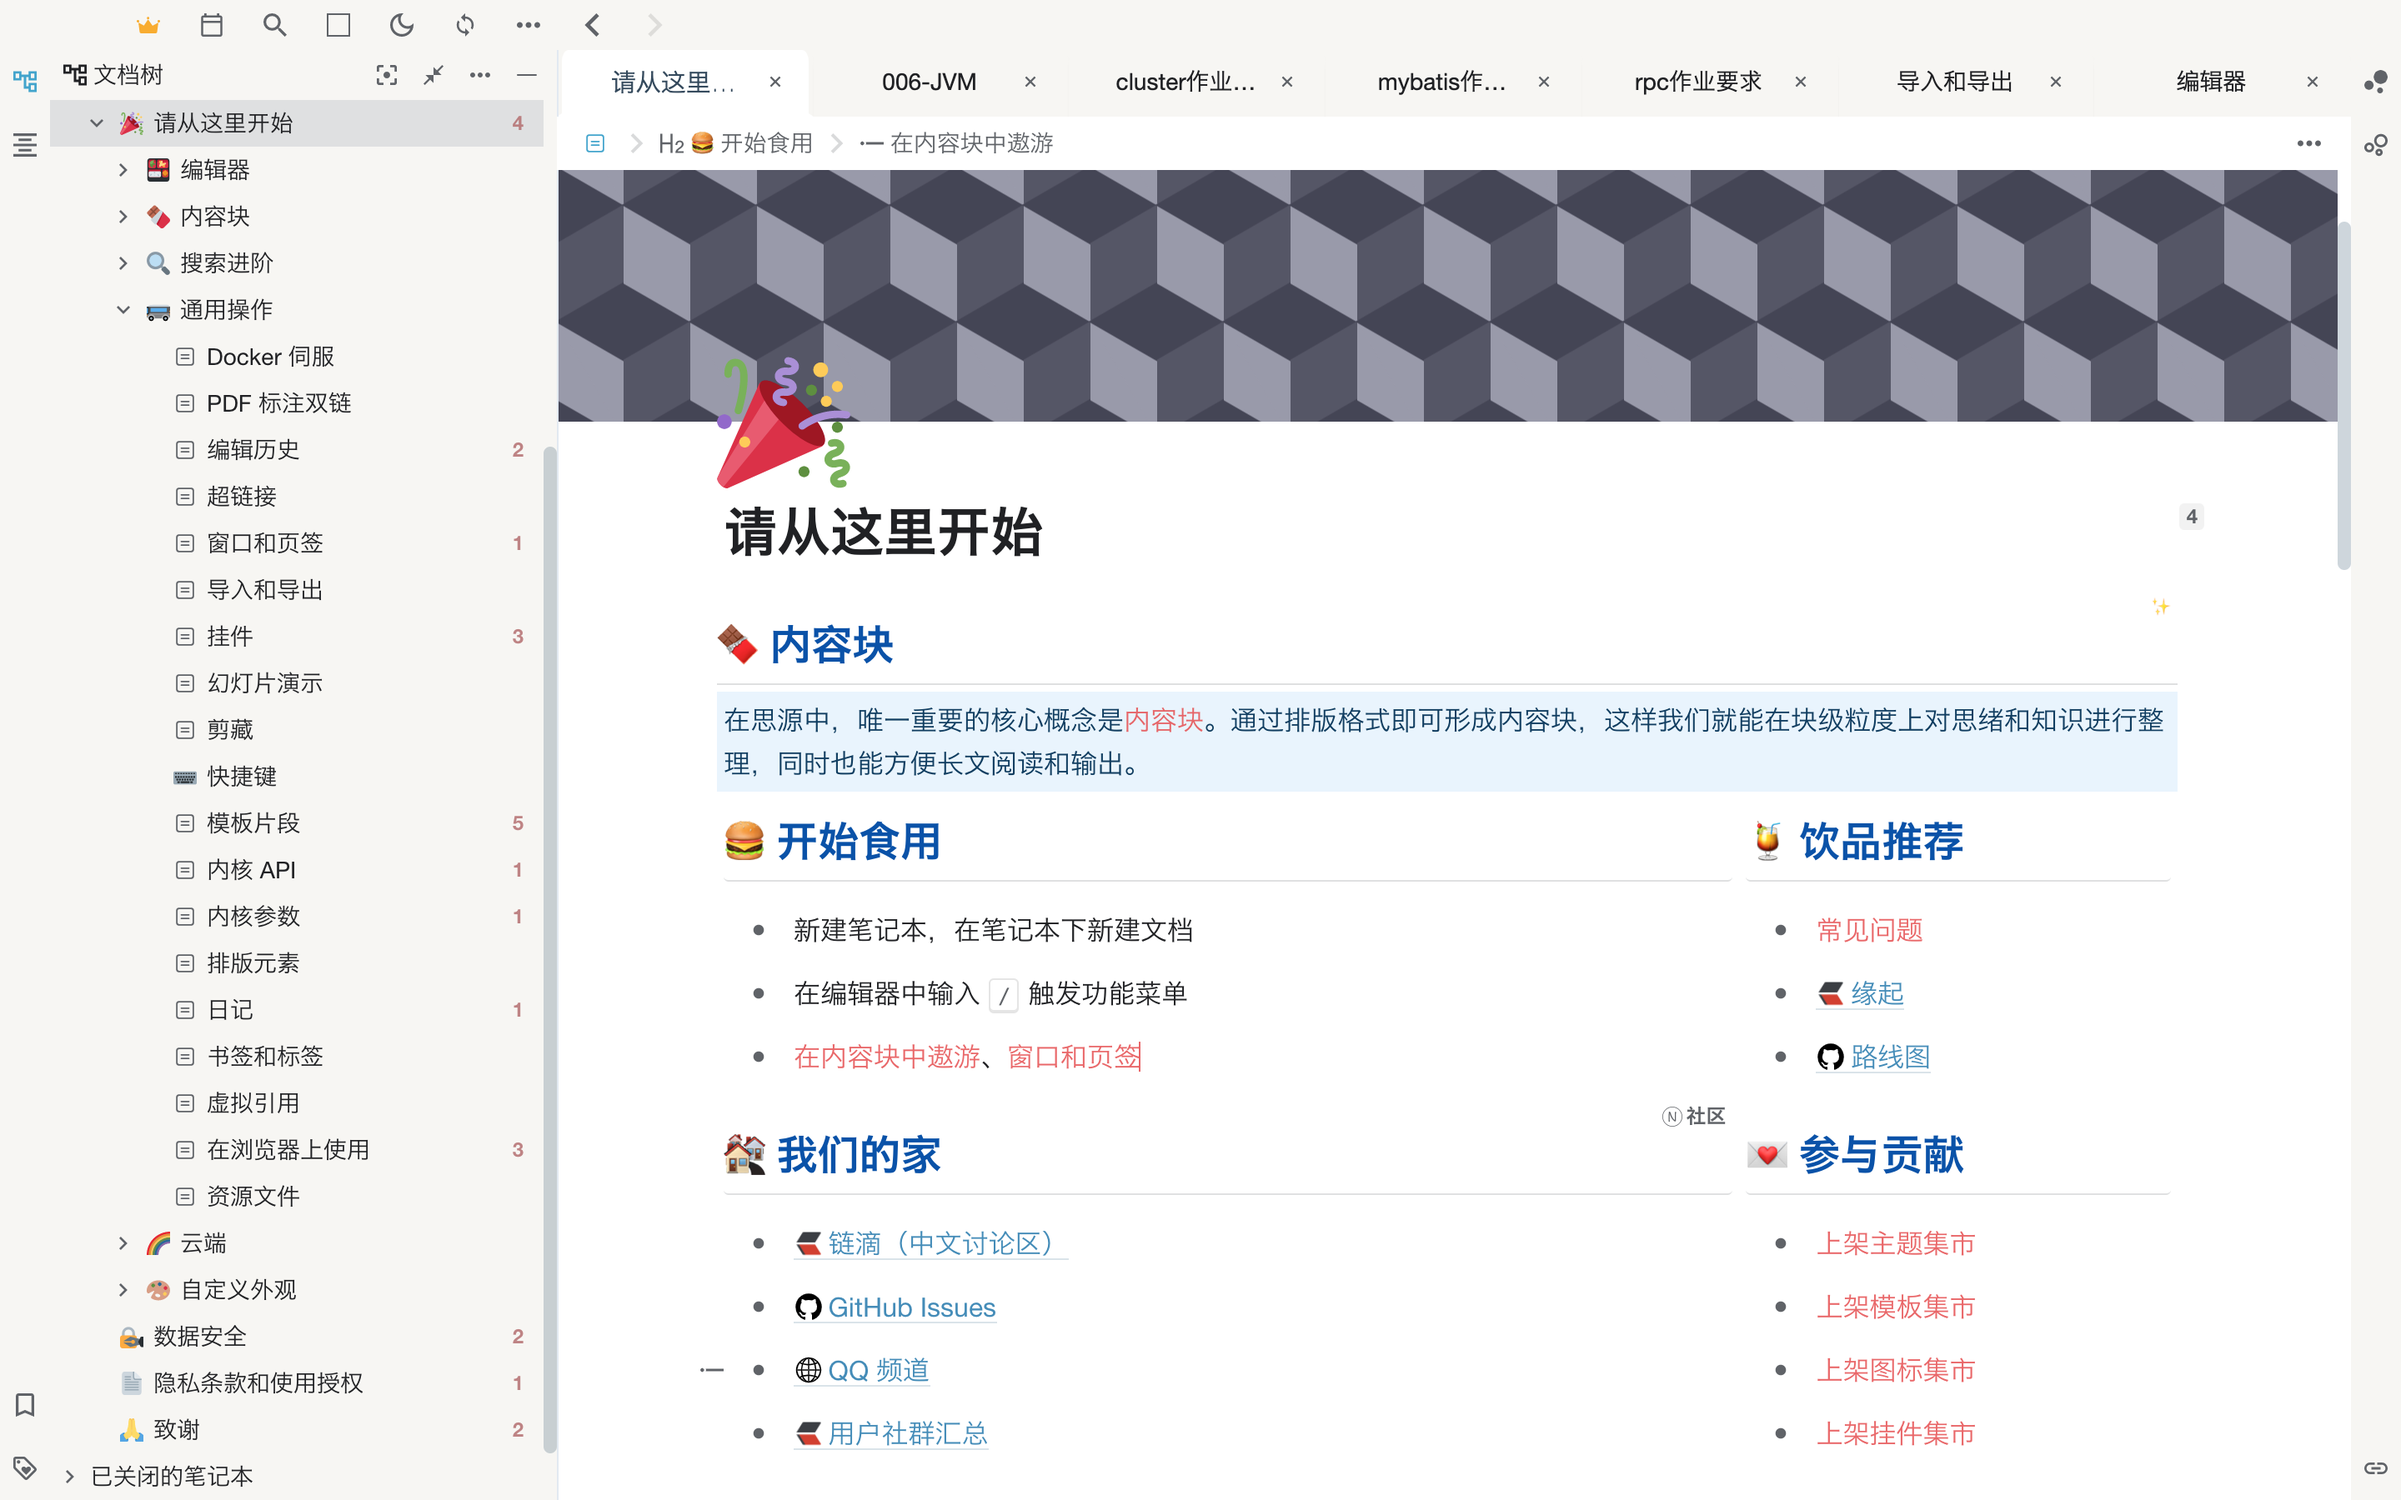
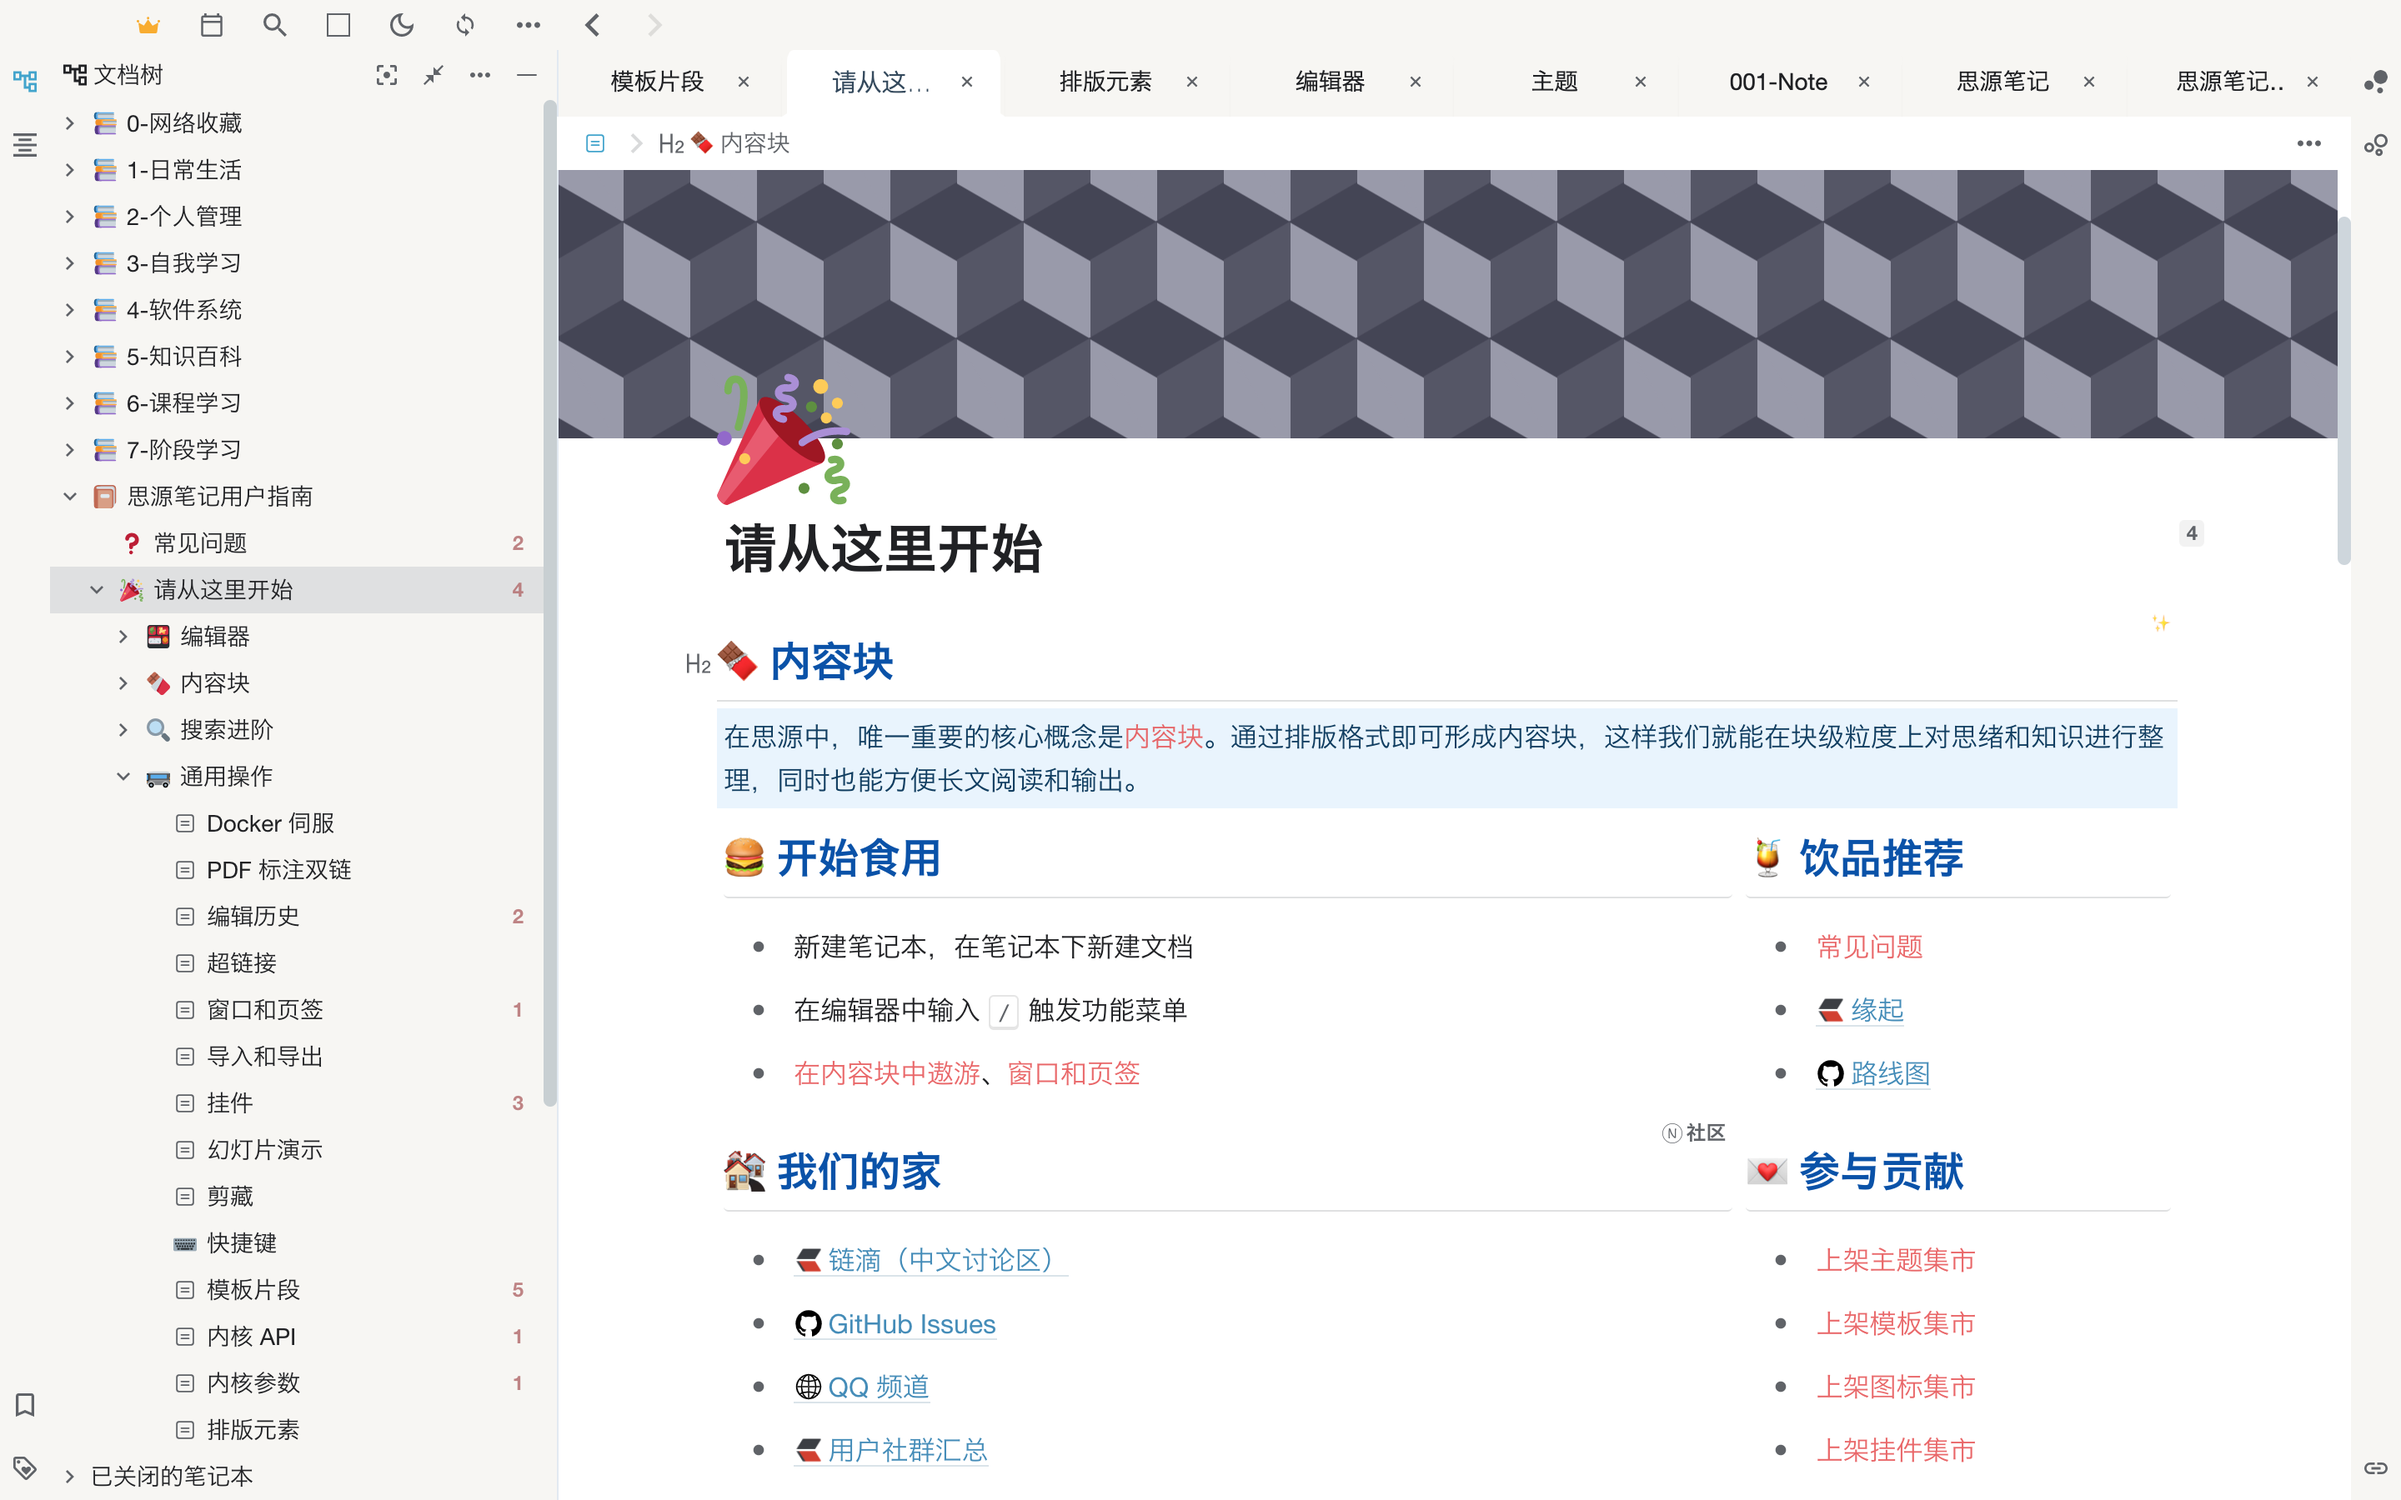
focus tab

diff --git a/theme.css b/theme.css
@@ -1029,12 +1029,14 @@ div[data-type='NodeMathBlock'] .minner .mfrac {
     /* 当前编辑窗口保持主背景色 */
     background-color: var(--b3-theme-background);
 }
+/*tab on focus*/
 .layout-tab-bar {
-    background-color: #f7f6f3;
+    background-color: #fff;
 }
 .layout-tab-bar .item {
     padding: 4px 4px 4px 14px;
     border: 3px;
+    /* font-weight: 200; */
     border-bottom: 2px solid transparent;
     border-right: 3px solid #f7f6f3;
     border-left: 3px solid #f7f6f3;
@@ -1046,8 +1048,8 @@ div[data-type='NodeMathBlock'] .minner .mfrac {
 /* 选中的标签页 */
 .layout-tab-bar .item--focus {
     color: var(--b3-menu-highlight-focus-color);
-    font-weight: 400;
-    font-size: 15px;
+    /* font-weight: 200;
+    font-size: 15px; */
     background-color: var(--b3-tab-custom-background);
     border-right: 3px solid #f7f6f3;
     border-left: 3px solid #f7f6f3;
@@ -1058,7 +1060,7 @@ div[data-type='NodeMathBlock'] .minner .mfrac {
 .layout__wnd--active .layout-tab-bar .item--focus {
     color: var(--b3-menu-highlight-focus-color);
     border-color: #e9f1f5;
-    font-weight: 200;
+    /* font-weight: 200; */
     border-right: 3px solid #f7f6f3;
     border-left: 3px solid #f7f6f3;
     /* 更改多窗口标签页当前页面底框高亮颜色 */
